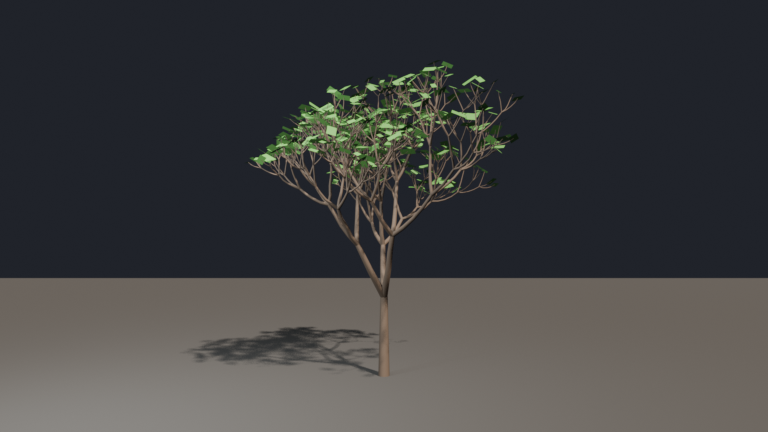
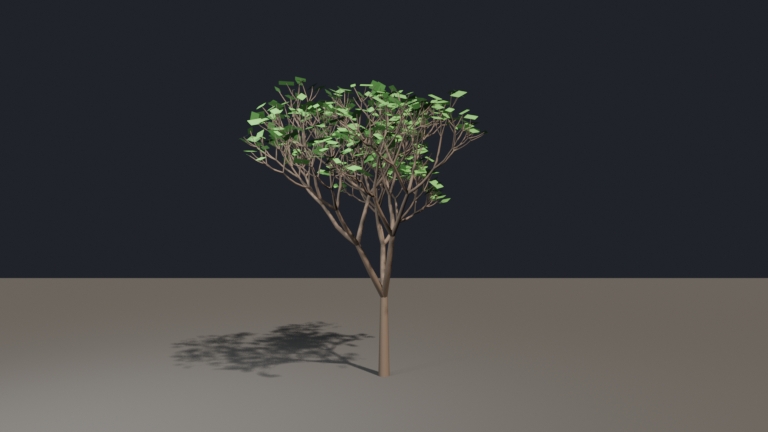
Tree example: branches no longer jump when a new level starts growing
Branch numbers (the seed for each branch's rotation, length and wobble)
were handed out in stack order, and only once a parent finished growing:
when a level started, the new children took numbers and every branch
visited after them got a different one. A child's number now comes from
its parent's number and its index. Leaves take their random turn and size
from that number (leaf_id) instead of @index, which shifts as points are
added.

Before, 40-86% of the tree moved (up to 0.46 m) at each new level; now
nothing moves, and leaves keep their turn and size. New preview image.

Changed region(s): [[0.3125, 0.1505, 0.6875, 0.6019], [0.2188, 0.7523, 0.5, 0.8727], [0.5, 0.662, 0.5312, 0.6921]]

diff --git a/examples/src/tree/tree.py b/examples/src/tree/tree.py
@@ -26,7 +26,7 @@ s_rot: list[quat] = [quat()] * 512
 s_len = [0.0] * 512                    # full length of the branch
 s_radius = [0.0] * 512
 s_depth = [0] * 512
-s_id = [0] * 512                       # a number for random()
+s_id = [0] * 512                       # the branch's number, for random()
 
 add_point((0, 0, 0))
 root = next_point
@@ -35,9 +35,8 @@ set_point_attr(root, "radius", 0.1 * grown(growth, 0))
 s_point[0] = root
 s_len[0] = trunk_length
 s_radius[0] = 0.1
-s_id[0] = seed * 7919
+s_id[0] = seed * 7919 % 1000003
 top = 1
-next_id = 1
 
 while top > 0:
     top -= 1
@@ -65,16 +64,19 @@ while top > 0:
         prev = pt
     if depth + 1 >= depth_max or g < 1:
         set_point_attr(prev, "leaf", True)
+        set_point_attr(prev, "leaf_id", bid)   # leaves.py turns each leaf by it
         continue
     for c in range(children):
         if top >= 512:
             break
+        # A child's number comes from its parent's, never from how many branches came before:
+        # a branch keeps its shape when new ones start growing elsewhere in the tree.
+        cid = (bid * 61 + c + 1) % 1000003
         s_point[top] = prev
         s_pos[top] = pos
-        s_rot[top] = child_rotation(q, c, spread, next_id)
-        s_len[top] = full * ratio * (0.8 + 0.4 * random(next_id, 5))
+        s_rot[top] = child_rotation(q, c, spread, cid)
+        s_len[top] = full * ratio * (0.8 + 0.4 * random(cid, 5))
         s_radius[top] = radius * ratio * 0.9
         s_depth[top] = depth + 1
-        s_id[top] = next_id
-        next_id += 1
+        s_id[top] = cid
         top += 1

diff --git a/examples/src/tree/leaves.py b/examples/src/tree/leaves.py
@@ -1,4 +1,8 @@
-# Tree, step 2 (Run Over: Instances): turn and size each leaf at random.
-spin = quat_euler((random(@index, 1) * 1.2 - 0.6, random(@index, 2) * 1.2 - 0.6, random(@index, 3) * math.tau))
-s = param("leaf_size", 0.18) * (0.6 + 0.8 * random(@index, 4))
+# Tree, step 2 (Run Over: Instances): turn and size each leaf at random. The random numbers come
+# from the branch's number (leaf_id, set by tree.py), not @index: indices shift as the tree grows,
+# and every leaf would turn at once.
+@leaf_id: int
+lid = @leaf_id
+spin = quat_euler((random(lid, 1) * 1.2 - 0.6, random(lid, 2) * 1.2 - 0.6, random(lid, 3) * math.tau))
+s = param("leaf_size", 0.18) * (0.6 + 0.8 * random(lid, 4))
 @transform = mat4_compose(@position, spin, s)
